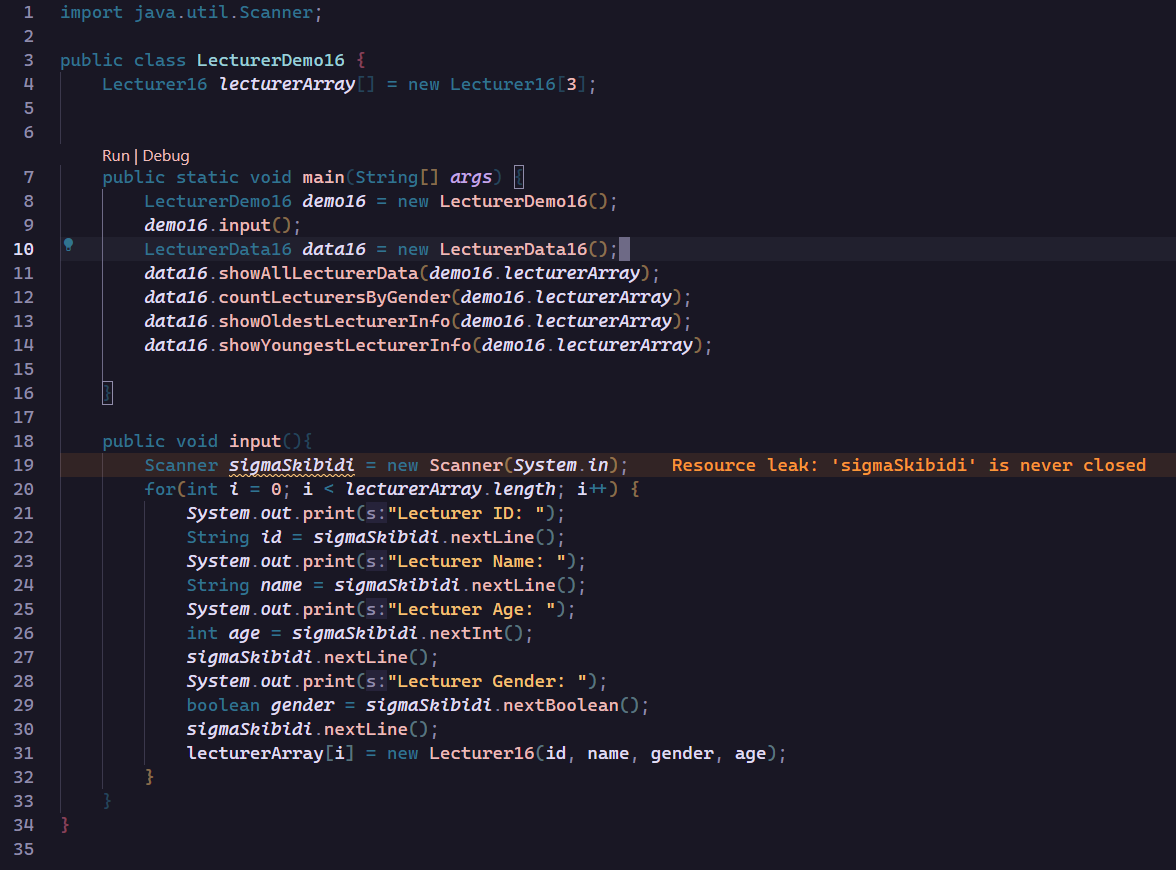
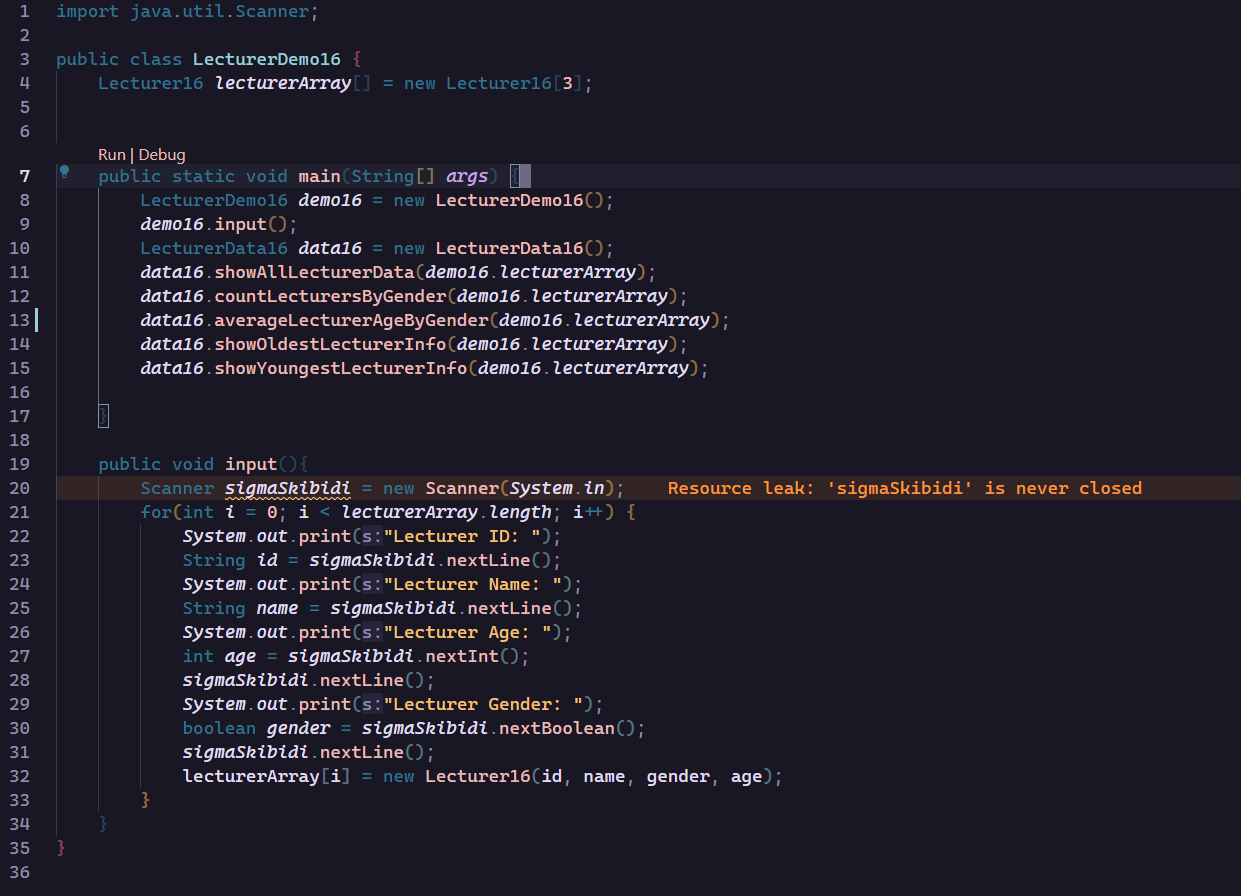
Some fixes on the assignment

Changed region(s): [[0.0, 0.1552, 1.0, 0.9931], [0.0, 0.0, 0.4898, 0.1552], [0.0612, 0.4345, 0.0918, 0.4655]]

diff --git a/3. Jobsheet 3 (Array of Objects)/src/LecturerData16.java b/3. Jobsheet 3 (Array of Objects)/src/LecturerData16.java
@@ -21,6 +21,24 @@ public class LecturerData16 {
         System.out.println("Female Lecturer counts: " + female);
     }
 
+    public void averageLecturerAgeByGender(Lecturer16[] lecturerArray) {
+        int male = 0;
+        int female = 0;
+        int maleAge = 0;
+        int femaleAge = 0;
+        for (int i = 0; i < lecturerArray.length; i++) {
+            if (lecturerArray[i].gender) {
+                male++;
+                maleAge += lecturerArray[i].age;
+            } else {
+                female++;
+                femaleAge += lecturerArray[i].age;
+            }
+        }
+        System.out.println("\nAverage age of male lecturers: " + (maleAge / male));
+        System.out.println("Average age of female lecturers: " + (femaleAge / female));
+    }
+
     public void showOldestLecturerInfo(Lecturer16[] lecturerArray) {
         int oldestIndex = 0;
         for (int i = 0; i < lecturerArray.length; i++) {

diff --git a/3. Jobsheet 3 (Array of Objects)/src/LecturerDemo16.java b/3. Jobsheet 3 (Array of Objects)/src/LecturerDemo16.java
@@ -10,6 +10,7 @@ public class LecturerDemo16 {
         LecturerData16 data16 = new LecturerData16();
         data16.showAllLecturerData(demo16.lecturerArray);
         data16.countLecturersByGender(demo16.lecturerArray);
+        data16.averageLecturerAgeByGender(demo16.lecturerArray);
         data16.showOldestLecturerInfo(demo16.lecturerArray);
         data16.showYoungestLecturerInfo(demo16.lecturerArray);
 
